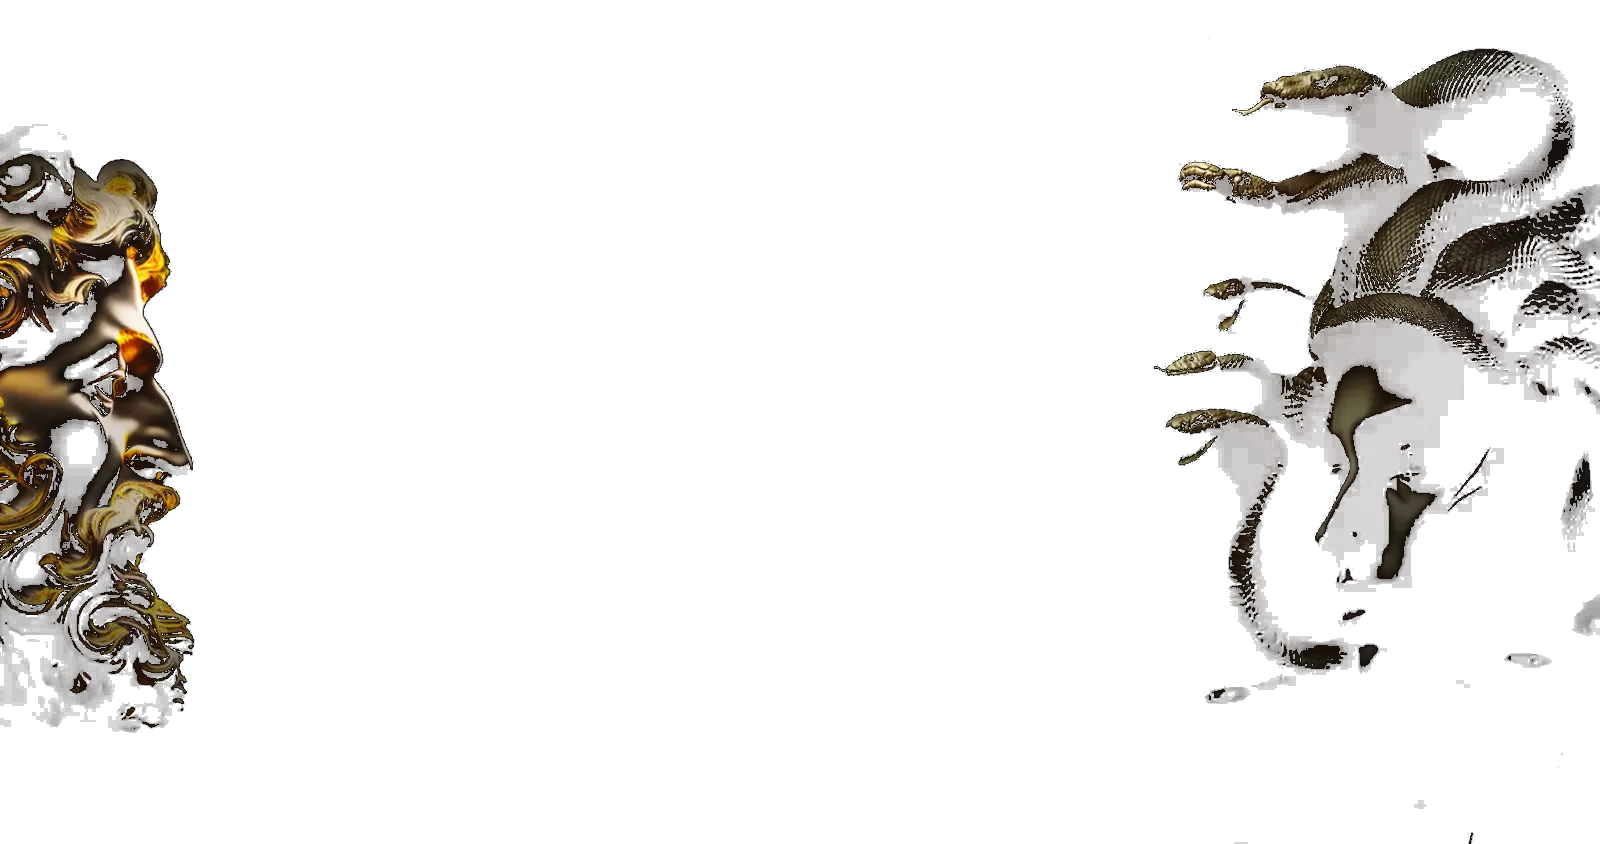
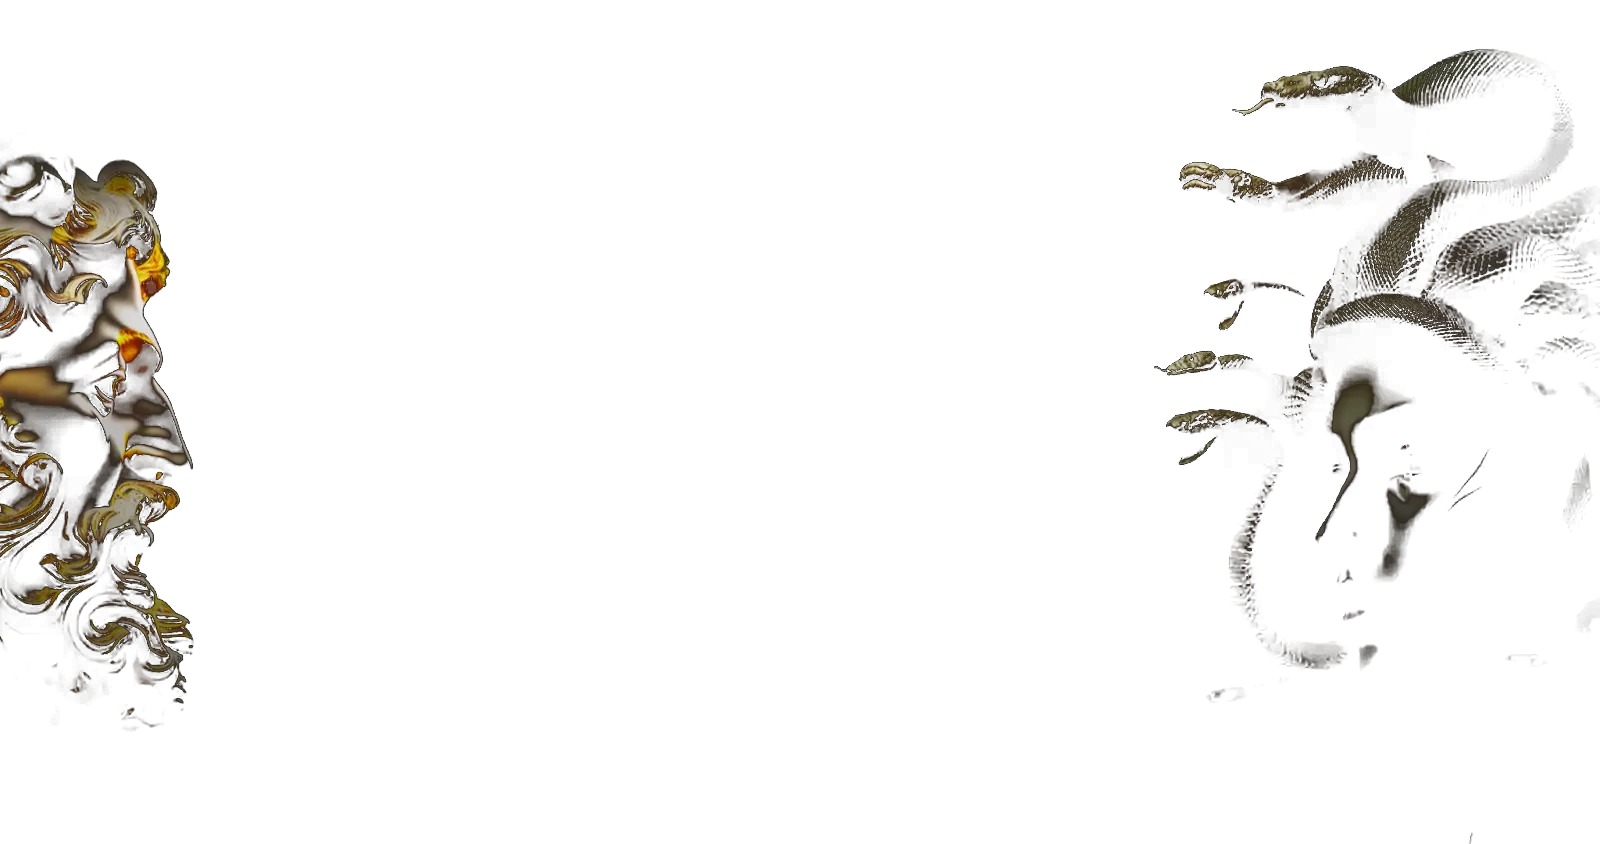
Revert "feat: enhance Medusa and Odin statues contrast and opacity by +30%"
This reverts commit d22394353ba4bb18242a6743ca9ecd3bef169d5b.

diff --git a/src/components/Hero.tsx b/src/components/Hero.tsx
@@ -63,7 +63,7 @@ export function Hero({ onEnterAtelier: _onEnterAtelier }: HeroProps) {
         <div className="absolute inset-0 bg-[#020202]/30" aria-hidden />
       </div>
 
-      {/* ── CAMADA SUPERIOR: MEDUSA E ODIN (REFORÇADAS +30% DE PRESENÇA E CONTRASTE) ── */}
+      {/* ── CAMADA SUPERIOR: MEDUSA E ODIN (PNG TRANSPARENTE COBRINDO A TELA TODA) ── */}
       <div className="absolute inset-0 z-10 pointer-events-none select-none overflow-hidden" aria-hidden>
         <picture className="w-full h-full">
           <source srcSet={MEDUSA_ODIN_WEBP} type="image/webp" />
@@ -73,7 +73,7 @@ export function Hero({ onEnterAtelier: _onEnterAtelier }: HeroProps) {
             aria-hidden
             className="absolute inset-0 w-full h-full object-cover object-center"
             style={{
-              filter: 'contrast(1.2) brightness(1.12) drop-shadow(0 8px 30px rgba(0,0,0,0.85))',
+              filter: 'drop-shadow(0 4px 20px rgba(0,0,0,0.6))',
             }}
             onError={(e) => {
               // Fallback caso a imagem não carregue
